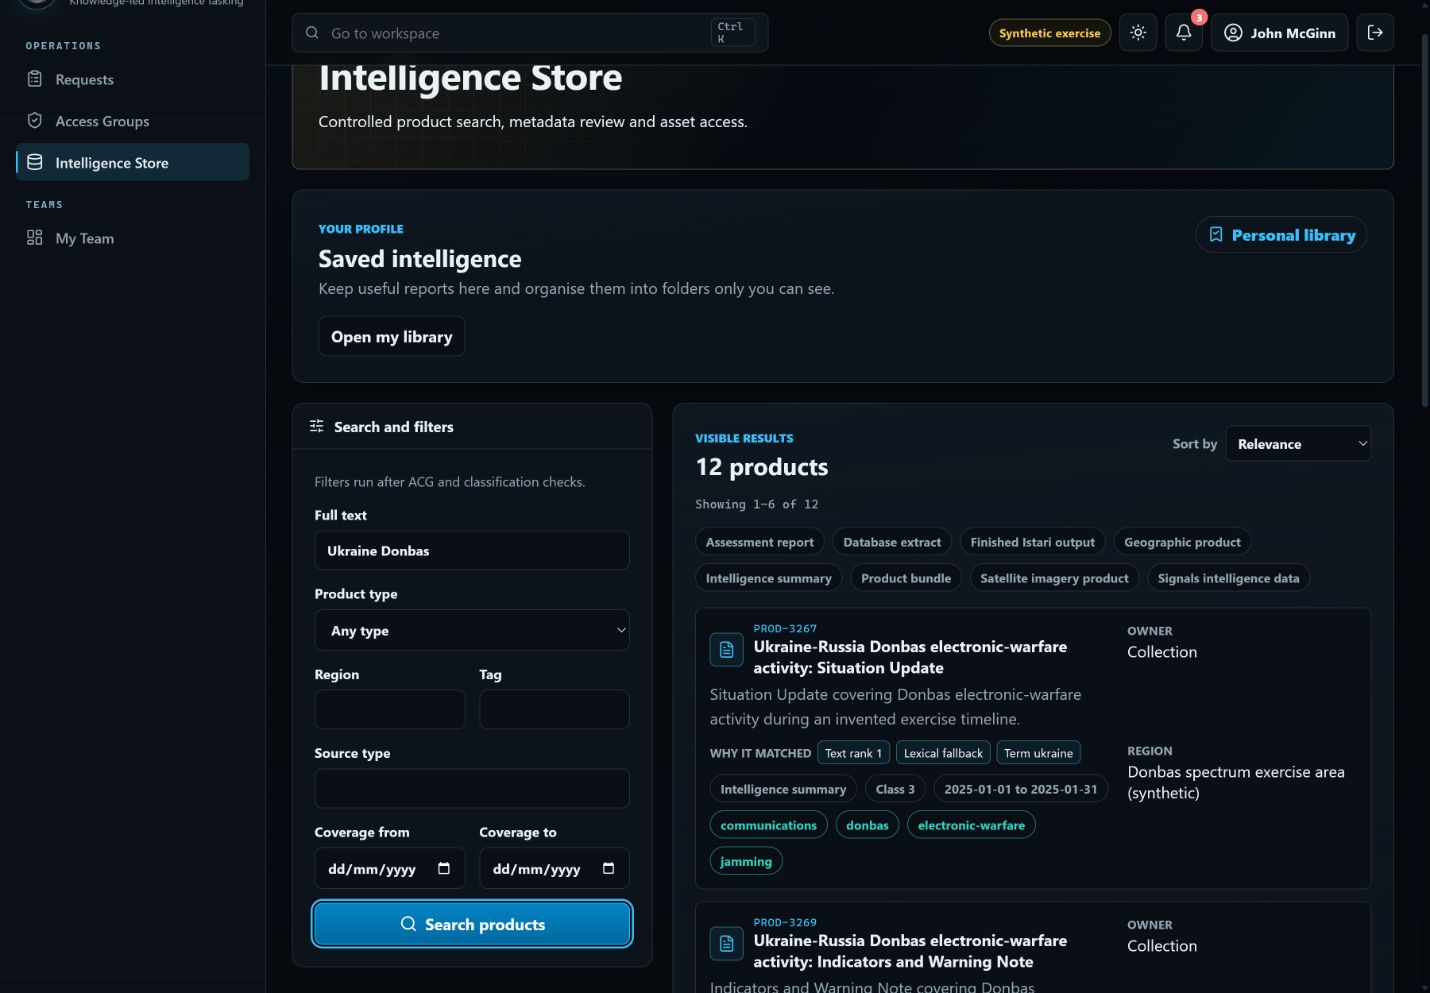
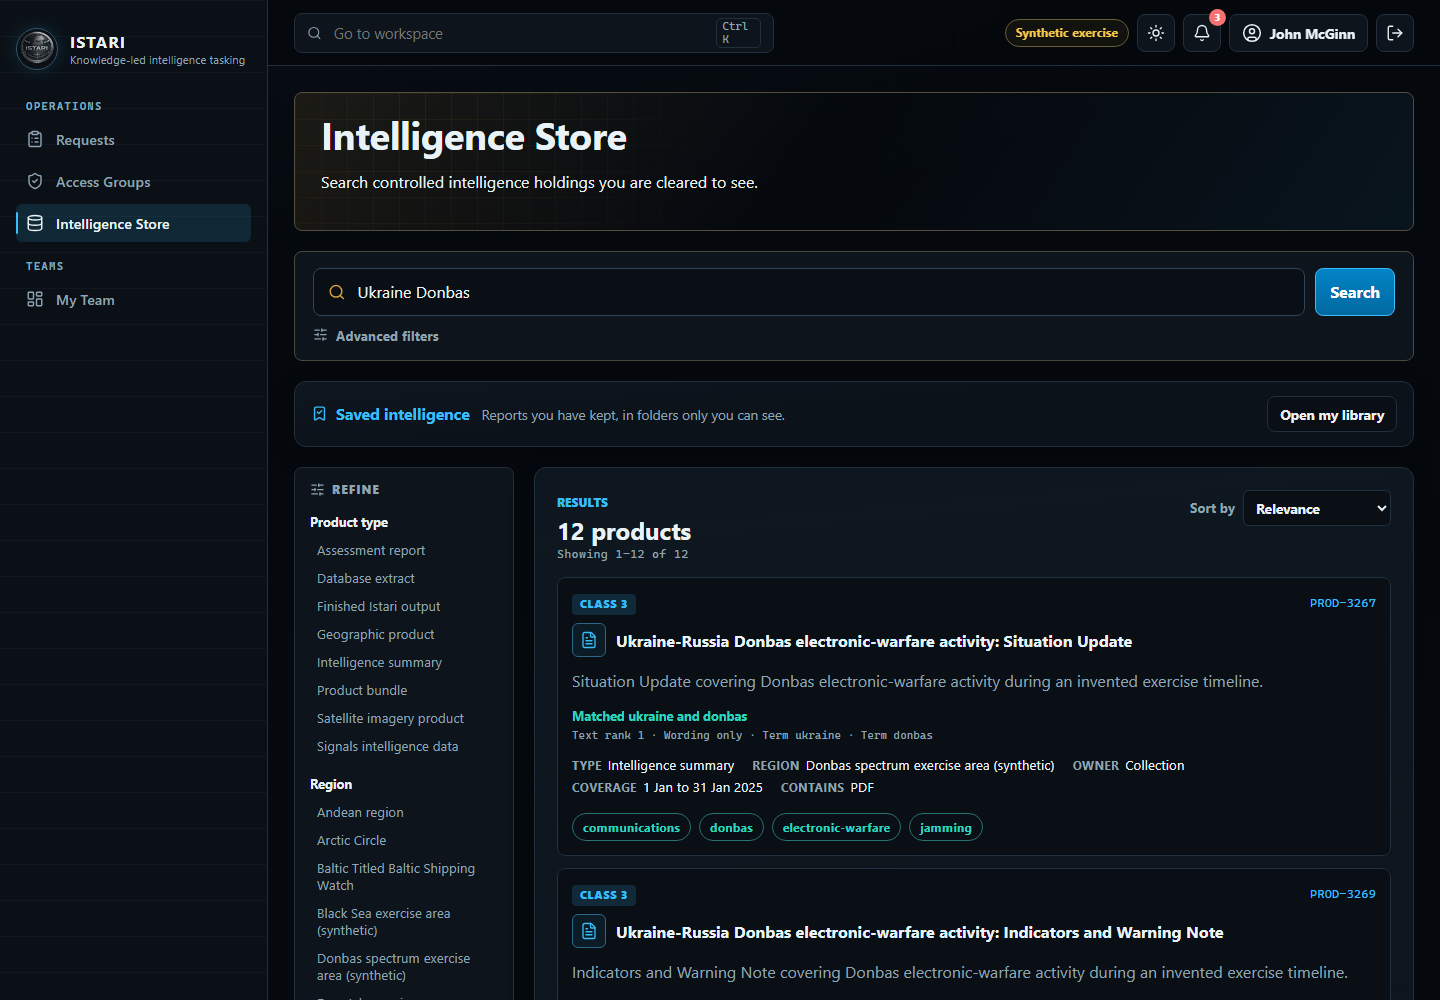
docs(store): record the browse changes and refresh the screenshot
Updates the browse-search spec with the sort contract, facet counts, the
broadened-query retry, the facet authorisation recheck and where web search
state lives. Updates the User Guide's Intelligence Store section and adds
the work to the development story and implementation plan, including the
deferred items this review identified but did not implement.

Recaptures the Intelligence Store screenshot at the documented 1440x1000
acceptance viewport, replacing an image that no longer matched the
interface. The product detail page is unchanged, so its screenshot is left
alone rather than churned.

diff --git a/docs/DEVELOPMENT_STORY.md b/docs/DEVELOPMENT_STORY.md
@@ -361,3 +361,89 @@ date order. They are historical evidence, not current operating instructions.
 - Exempted Markdown documentation from the 350-line source and configuration
   limit so reader structure, not an arbitrary code-size gate, determines how
   documentation is organised.
+
+## 2026-08-02 Istari Intelligence Store browse experience
+
+- Added a `sort` query parameter (`relevance|title|coverage`) to
+  `GET /api/v1/store/products`, threaded through `StoreSearchFilters` into
+  both the SQL browse path (static `ORDER BY` fragments selected by enum,
+  never interpolated request text) and the Python hybrid path. Ordering is
+  applied to the whole matched set before paging, so a sort choice now
+  holds across pages; previously there was no sort parameter and the web
+  UI reordered only the current page.
+- Added `facets.counts`, giving the number of visible products behind each
+  product type, region and tag, counted over the access-scoped,
+  structurally-filtered set via `jsonb_agg` in `SEARCH_SUMMARY_SQL`. Hidden
+  products contribute to neither the lists nor the counts. Counts were added
+  alongside the existing ordered value lists rather than replacing them: the
+  first attempt returned `{value, count}` pairs in place of the string lists,
+  which the OpenAPI compatibility gate correctly rejected as a breaking
+  response change.
+- Extended the projection recheck to cover facets. A security review of this
+  change found that the free-text search path returned SQL-derived facet
+  values and counts without the `can_read` recheck the structured browse path
+  already applied, so a divergence between the SQL scope predicate and the
+  service policy could disclose a region, type or tag belonging to a product
+  the requester cannot read, and now its count as well. Both paths now share
+  one recheck and fail closed on drift; a regression test asserts a hidden
+  product contributes to neither facet lists nor counts on either path.
+- Added one-shot query relaxation: when a multi-term text query returns
+  nothing, the service retries with the terms joined by `OR` and sets
+  `relaxed: true` on the response. Match reasons are always derived from
+  the query the operator typed, never the broadened form, and single-term
+  queries are never broadened. Cause: `websearch_to_tsquery` requires every
+  term, so natural phrases such as `arctic shipping routes` dead-ended
+  despite strong partial matches.
+- Moved applied Store search state into the URL (`q`, `type`, `region`,
+  `tag`, `source`, `from`, `to`, `sort`, `page`) via a new `useStoreSearch`
+  hook, so a search now survives navigation, refresh, bookmarking and the
+  browser Back button; it was previously component state, lost whenever a
+  product was opened.
+- Raised page size from 6 to 24 with numbered pagination (first, last and
+  a window around the current page), and added a `StoreFacetRail` that
+  turns facets into clickable filters with counts; region and tag facets
+  were previously fetched and discarded, and product-type facets were
+  inert chips.
+- Added a `StoreResultCard` that leads with classification marking and
+  status badge, renders coverage windows as plain dates and shows the
+  product's asset make-up, with draft products badged. Match explanations
+  were rewritten into plain language (for example `Matched arctic`), with
+  the raw retrieval signals kept as secondary detail.
+- Requested owner-team scoping (`My Products`, RFA/Collection product
+  workspaces) from the server instead of filtering a returned page
+  client-side, removing the totals/pagination inconsistency the old
+  client-side filter required workarounds for. Collapsed the personal
+  library panel to a single compact bar instead of it occupying the top of
+  the workspace.
+- Fixed an out-of-range page (for example a bookmarked `page=3` on a
+  result set that had shrunk), which previously rendered
+  `Showing 49-17 of 17`; it now explains the page is past the end and
+  offers a return to the first page. Made `Back to store` return to the
+  operator's applied search, rebuilt from known store parameters only so
+  navigation state stays presentation-only and cannot carry arbitrary
+  content into the link.
+- Hid facet counts while a search term is applied. Refinement options are
+  computed without the term so a narrow search still leaves somewhere to go,
+  which means their counts describe the catalogue, not the results on screen.
+  Refreshing the documentation screenshot exposed the consequence: the rail
+  read `Assessment report 136` beside `12 products`. The options stay, so the
+  ADR 0017 behaviour is unchanged, but the contradictory number does not.
+- Added real-PostgreSQL coverage for the new SQL. The default suite runs the
+  memory persistence provider, so the Python ranking path answers every browse
+  query and the new `ORDER BY` variants and `jsonb_agg` facet aggregation were
+  never executed by a test. `tests/postgres/test_store_sort_and_facets_sql.py`
+  now seeds products against a real database and asserts newest-coverage-first
+  ordering with undated products last, title ordering, an executable statement
+  for every `StoreSortOrder` member, and facet counts covering the whole
+  filtered set rather than the returned page.
+- Deleted the superseded `StoreSearchFiltersPanel.tsx` and
+  `store-match-reasons.css`. Updated
+  `docs/specs/store-hybrid-browse-search.md` (sort order, facet counts,
+  broadened queries and web search state) and the Intelligence Store
+  section of `docs/USER_GUIDE.md`.
+- Verified with the combined backend suite of 1,714 unit tests and 82
+  PostgreSQL tests passing at 98.32/95.41 line/branch coverage, 608
+  frontend tests passing at 98.71/95.27, and clean Ruff, mypy, Bandit,
+  ESLint, Prettier, TypeScript, architecture-boundary, file-length and
+  OpenAPI contract checks. Confirmed end to end against the local
+  279-product Docker catalogue.

diff --git a/docs/specs/store-hybrid-browse-search.md b/docs/specs/store-hybrid-browse-search.md
@@ -12,7 +12,7 @@ Store search has two paths:
 
 - **No free-text query:** keep the existing browse path. Products are scoped by
   ACG, clearance, draft visibility and archive state, filtered by structured
-  fields, sorted by title and paginated exactly.
+  fields, ordered by the requested sort and paginated exactly.
 - **Free-text query:** build one query embedding through the configured
   `EmbeddingService`, retrieve hybrid candidates from the existing Store
   projection path, then return the same `StoreSearchResult` shape with ranked
@@ -31,6 +31,53 @@ use a large internal candidate cap for the current local Store size, but the
 cap must not be the public page size and must be documented in code.
 The Store browse path uses a 500-candidate cap per lexical or vector leg. RFI
 search keeps its stricter 50-candidate leg cap.
+
+## Sort Order
+
+Ordering is a server contract, applied to the whole matched set before paging,
+so a sort choice holds across pages. `GET /store/products` accepts
+`sort=relevance|title|coverage`, defaulting to `relevance`; an unrecognised
+value is rejected with `422`.
+
+- `relevance` orders free-text results by `match_score` then title. Catalogue
+  browse has no relevance signal to rank by, so it resolves to title order.
+- `title` orders case-insensitively by title.
+- `coverage` orders by newest `time_period_start` first. Products with no
+  recorded coverage sort last, so an empty window never outranks a dated
+  product.
+
+The browse path selects a static `ORDER BY` fragment by enum; no request text
+reaches the statement.
+
+## Facets
+
+Facets list the product types, regions and tags present in the access-scoped,
+structurally-filtered set. `facets.counts` carries how many visible products
+hold each value, keyed by value, so counts describe every product the requester
+may see for the current search rather than just the returned page. Hidden
+products contribute to neither the lists nor the counts.
+
+Counts were added alongside the existing ordered value lists rather than
+replacing them, keeping the published response shape backward compatible.
+
+Facets remain query-blind by design so refinement options survive a narrow
+query. A consequence is that once a search term is active the counts describe
+the catalogue rather than the results on screen, so the web store shows the
+options without their counts while a term is applied. Presenting both together
+would contradict the result total.
+
+## Broadened Queries
+
+`websearch_to_tsquery` requires every term, so a natural phrase such as
+`arctic shipping routes` retrieves nothing even when strong partial matches are
+held. When a multi-term query yields no hits, the service retries once with the
+terms joined by `OR` and sets `relaxed: true` on the response. Single-term
+queries are never broadened, because broadening would search for the same
+thing.
+
+Match reasons are always derived from the query the operator typed, never from
+the broadened form, and the UI states that the search was broadened so partial
+matches are never presented as exact ones.
 
 ## Relevance And Reasons
 
@@ -71,6 +118,11 @@ search must not fail. It falls back to lexical retrieval and records
   are applied before ranking.
 - The service layer rechecks `can_read` before returning results.
 - Hidden products must not affect ranks, counts, facets or reasons.
+- Facet values and counts are derived in SQL, so they carry the same recheck as
+  products. If any product the projection returned fails the in-process policy
+  check, the SQL scope has drifted from the API rules and nothing derived from
+  that projection is reported: browse returns an empty result, and a text query
+  returns its independently rechecked hits with empty facets.
 - The in-memory fallback must apply the same structured filters as the
   PostgreSQL projection path.
 
@@ -83,8 +135,12 @@ search must not fail. It falls back to lexical retrieval and records
 - A cross-word-boundary substring such as `port engin` does not match only
   because it appears inside `report engine`.
 - Facets remain populated from the structurally-filtered scoped set, not only
-  the text-matched subset.
+  the text-matched subset, and every listed value carries a count.
 - Pagination and totals are exact for the returned query result set.
+- A sort choice holds across pages: paging a title-sorted search never repeats
+  or reorders products.
+- A multi-term phrase that matches no single product returns the closest
+  matches with `relaxed: true` rather than an empty result.
 - Provider-degraded browse search returns lexical results rather than an error.
 - Gibberish queries with no lexical or vector signal return zero hits, even
   when every scoped product has an embedding.
@@ -101,3 +157,15 @@ administer the catalogue. The web store shows a search-first prompt until
 the user submits a search; owner-scoped pages (My Products, RFA and
 Collection product workspaces) carry `ownerTeam` and load as before, and
 RFI search remains the other sanctioned discovery route.
+
+## Web Store Search State
+
+Applied search state lives in the URL (`q`, `type`, `region`, `tag`, `source`,
+`from`, `to`, `sort`, `page`), so a result set can be shared, refreshed,
+bookmarked and returned to with the browser Back button after opening a
+product. The search bar edits a draft that is applied on submit; facet clicks
+and history navigation apply immediately and the draft follows what is applied.
+
+Owner-team scoping is requested from the server rather than filtered from a
+returned page, so totals and pagination always describe the same set the page
+is showing.

diff --git a/docs/USER_GUIDE.md b/docs/USER_GUIDE.md
@@ -135,11 +135,28 @@ team will check for overlapping work.
 
 ## Intelligence Store
 
-The Intelligence Store is a controlled search service. The collapsible
-**Search and filters** panel supports full text, product type, region, tag,
-source type and coverage dates; results can be sorted by relevance, title or
-newest coverage. Filters run **after** access control and classification checks,
-so a customer only ever sees products they are entitled to.
+The Intelligence Store is a controlled search service. Search runs across
+titles, summaries, tags and semantic labels; **Advanced filters** adds product
+type, region, tag, source type and coverage dates. All of it runs **after**
+access control and classification checks, so a customer only ever sees products
+they are entitled to.
+
+Results can be sorted by relevance, title or newest coverage. Sorting and
+paging are applied by the server across the whole matched set, so a sort choice
+holds as you page through. The **Refine** rail beside the results lists the
+product types, regions and tags you can narrow to; selecting one applies it as a
+filter and selecting it again removes it. When you are filtering rather than
+searching, each option carries a count of the products you are cleared to see.
+Refinement options deliberately ignore the search term so a narrow search still
+leaves somewhere to go, so once a term is active the counts are hidden rather
+than shown against a different set of results.
+
+The search you have applied is held in the address bar, so a result set can be
+shared with a colleague, refreshed, bookmarked, and returned to with the browser
+Back button after opening a product.
+
+If a phrase matches no single product, the store broadens the search to the
+closest matches and says so, rather than reporting nothing found.
 
 ![Intelligence Store search and results](images/06-intelligence-store.png)
 
@@ -158,8 +175,14 @@ request; ordinary Store browsing does not create one.
 
 ![Intelligence product assets with collapsed metadata](images/15-product-detail.png)
 
-Each result carries rich metadata: reference, owning team, region,
-classification, coverage window, tags and format. RFA and Collection managers
+Each result card leads with its classification marking and reference, then the
+title, a summary and the facts needed to judge it without opening it: type,
+region, owning team, coverage window in plain dates, and what the product
+actually contains. Products that are not yet published are badged as such. When
+a search term is active, each card states what matched in plain words, with the
+underlying retrieval signals shown beneath for anyone diagnosing relevance.
+
+RFA and Collection managers
 can register existing products for their own area. Intelligence Store Managers
 can register draft or published products for either area, choose their product
 ACGs and browse the catalogue without first entering search criteria. These

diff --git a/docs/MASTER_IMPLEMENTATION_PLAN.md b/docs/MASTER_IMPLEMENTATION_PLAN.md
@@ -357,3 +357,26 @@ Status: complete and verified for the supported local/test boundary.
 ## 2 August 2026 Customer search recovery and outcomes
 
 - [x] Preserve assurance without stale warnings; require reject-all feedback before refined search, JIOC tasking or outcome closure.
+
+## 2 August 2026 Intelligence Store browse and search improvements
+
+Status: implemented and verified on `main`; changes are uncommitted in the working tree.
+
+- [x] Add server-side `sort` (`relevance|title|coverage`) on `GET /api/v1/store/products`, applied to the whole matched set before paging so a sort choice holds across pages; previously no sort parameter existed and the web UI reordered only the current page.
+- [x] Add `facets.counts` to the store search response, counting visible products behind each product type, region and tag over the access-scoped, structurally-filtered set, alongside the existing ordered value lists, keeping the response backward compatible.
+- [x] Add one-shot query relaxation: a multi-term text query that returns nothing is retried with its terms joined by `OR`, with the response carrying `relaxed: true` while match reasons stay derived from the query the operator typed.
+- [x] Move web store search state into the URL so a search survives navigation, refresh, bookmarking and browser Back.
+- [x] Raise page size from 6 to 24 with numbered pagination, add a clickable counted facet rail, and lead result cards with classification marking and status badge, plain-date coverage, asset make-up and plain-language match explanations.
+- [x] Request owner-team scoping from the server rather than filtering client-side.
+- [x] Fix an out-of-range page rendering a backwards range ("Showing 49-17 of 17"), and fix "Back to store" losing the applied search.
+
+### Deferred Scope
+
+Identified during this work but not implemented:
+
+- Related products / more-like-this: product embeddings and an HNSW index already exist, but no endpoint exposes them.
+- Store-facing page-cited passage excerpts: the chunk index provides these to RFI search only.
+- Product edit, archive and asset-management endpoints: `product:update_metadata`, `product:manage_assets` and `product:archive` are granted to roles but no endpoint enforces them.
+- `createdAt`, `updatedAt`, `createdBy` and `boundingBox` are stored but stripped by the response presenter.
+- Reuse signals per product exist in the RFA and Collection analytics endpoints but are not surfaced in the store.
+- No audit event on normal product view, preview or download; only break-glass is audited, and no watermarking exists.

diff --git a/docs/images/README.md b/docs/images/README.md
@@ -11,7 +11,7 @@ requests and intelligence products shown are synthetic exercise data.
 | [03 customer dashboard](03-customer-dashboard.png) | `/app/requests`                | `admin2`     | Open-request register, action summary and collapsed closed requests |
 | [04 request workspace](04-request-workspace.png)   | `/app/requests/new`            | `admin2`     | Fresh conversational intake and optional dictation                  |
 | [05 request journey](05-request-journey.png)       | RFI result workspace           | `admin2`     | Product-first results with the request-journey overlay              |
-| [06 Intelligence Store](06-intelligence-store.png) | `/store`, searched             | `admin2`     | Personal library, filters and authorised results                    |
+| [06 Intelligence Store](06-intelligence-store.png) | `/store`, searched             | `admin2`     | Search, refine rail and marked authorised results                   |
 | [07 RFA queue](07-rfa-queue.png)                   | `/rfa/queue`                   | `admin6`     | Manager queue, capability evidence and approval context             |
 | [08 analyst workbench](08-analyst-workbench.png)   | `/analyst/workbench`           | `admin11`    | Assigned tasks and analyst production workspace                     |
 | [09 QC queue](09-qc-queue.png)                     | `/qc/queue`                    | `admin15`    | Claim-gated quality-control queue                                   |
